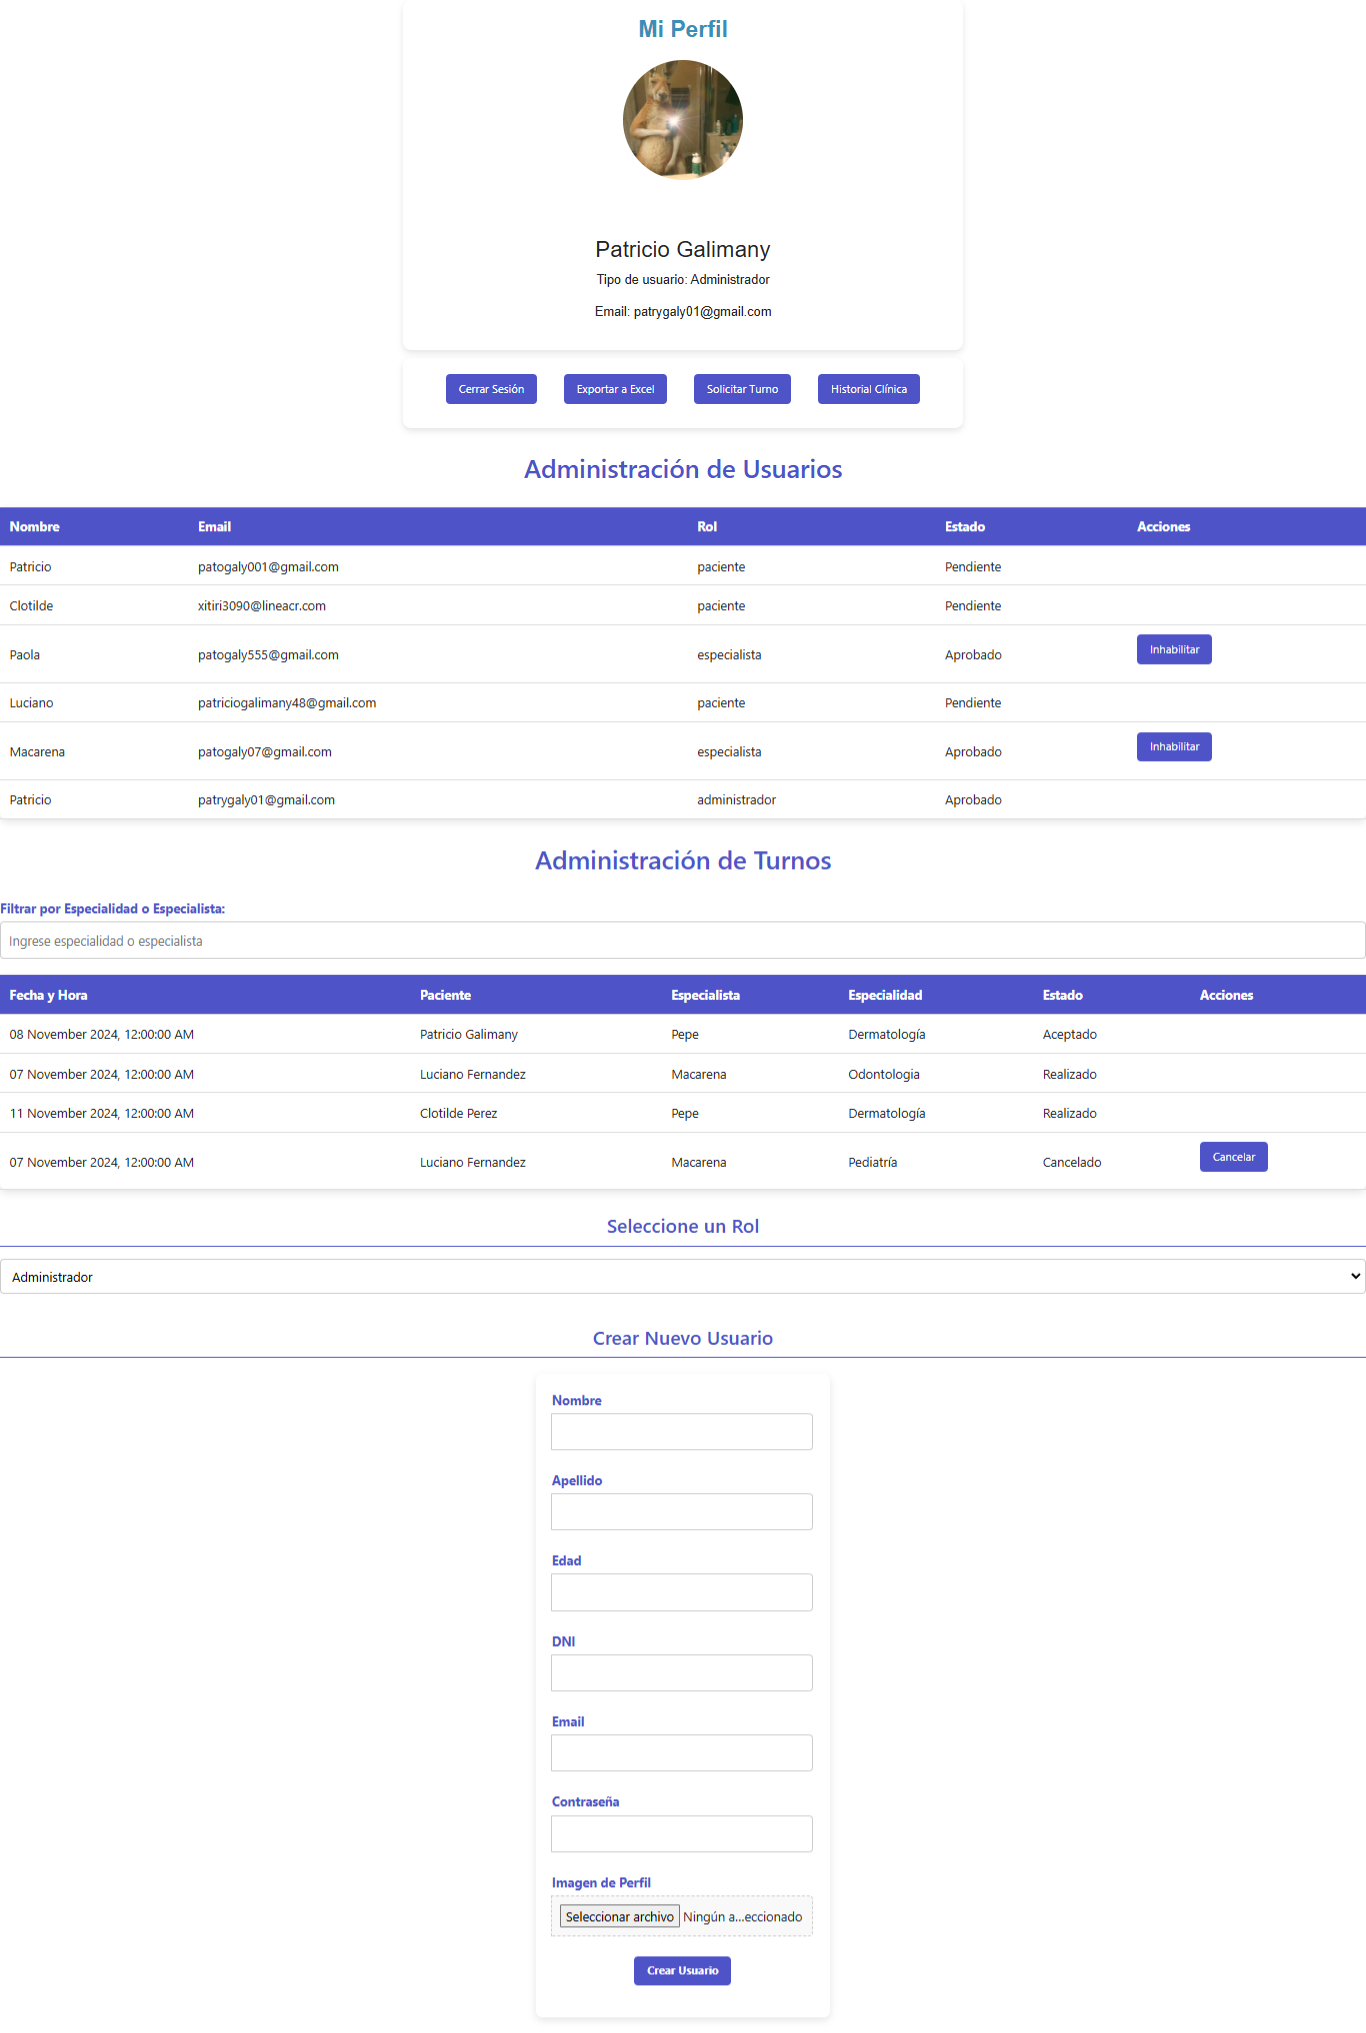
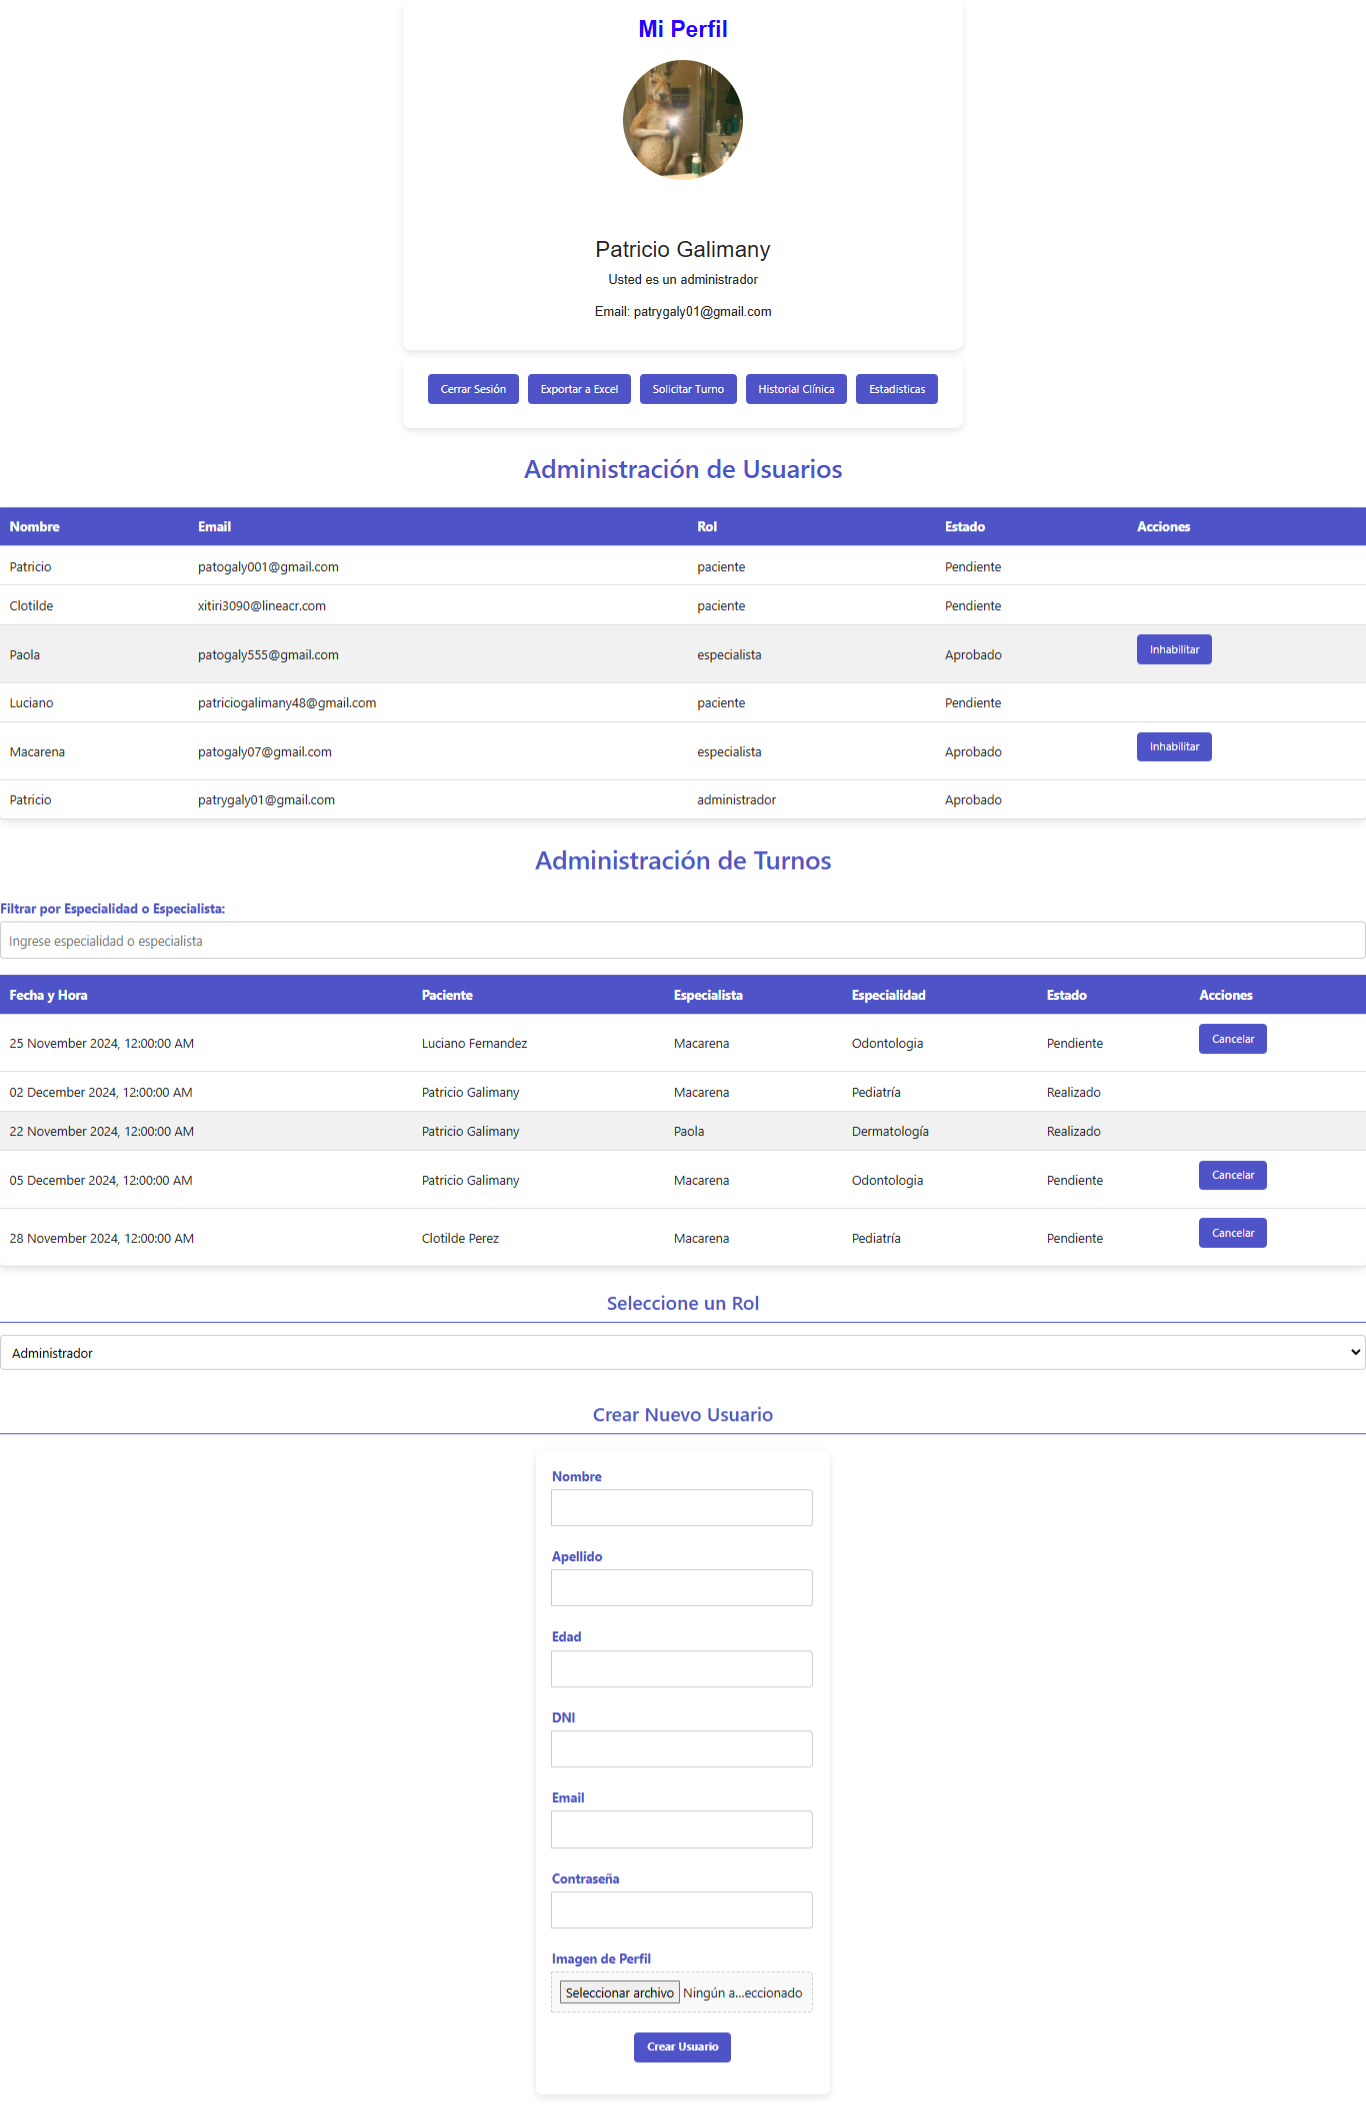
TP-Final

diff --git a/README.md b/README.md
@@ -33,9 +33,17 @@
 
 <img src="documentos/pantalla-especialista.jpg"/>
 
+### PANTALLA DE LOS DETALLES DEL PACIENTE
+
+<img src="documentos/pantalla-detalles-pacientes.jpg"/>
+
 ### PANTALLA DEL ADMINISTRADOR
 
 <img src="documentos/pantalla-administrador.jpg"/>
+
+### PANTALLA DE EXPORTACION A EXEL
+
+<img src="documentos/pantalla-exportacion-exel.jpg"/>
 
 ### PANTALLA DE SOLICITAR TURNOS DEL ADMINISTRADOR
 
@@ -44,3 +52,7 @@
 ### PANTALLA DEL HISTORIAL CLINICO DEL ADMINISTRADOR
 
 <img src="documentos/pantalla-historial-clinica-admin.jpg"/>
+
+### PANTALLA DE ESTADÍSTICAS DE TURNOS
+
+<img src="documentos/pantalla-estadisticas-turnos.jpg"/>
